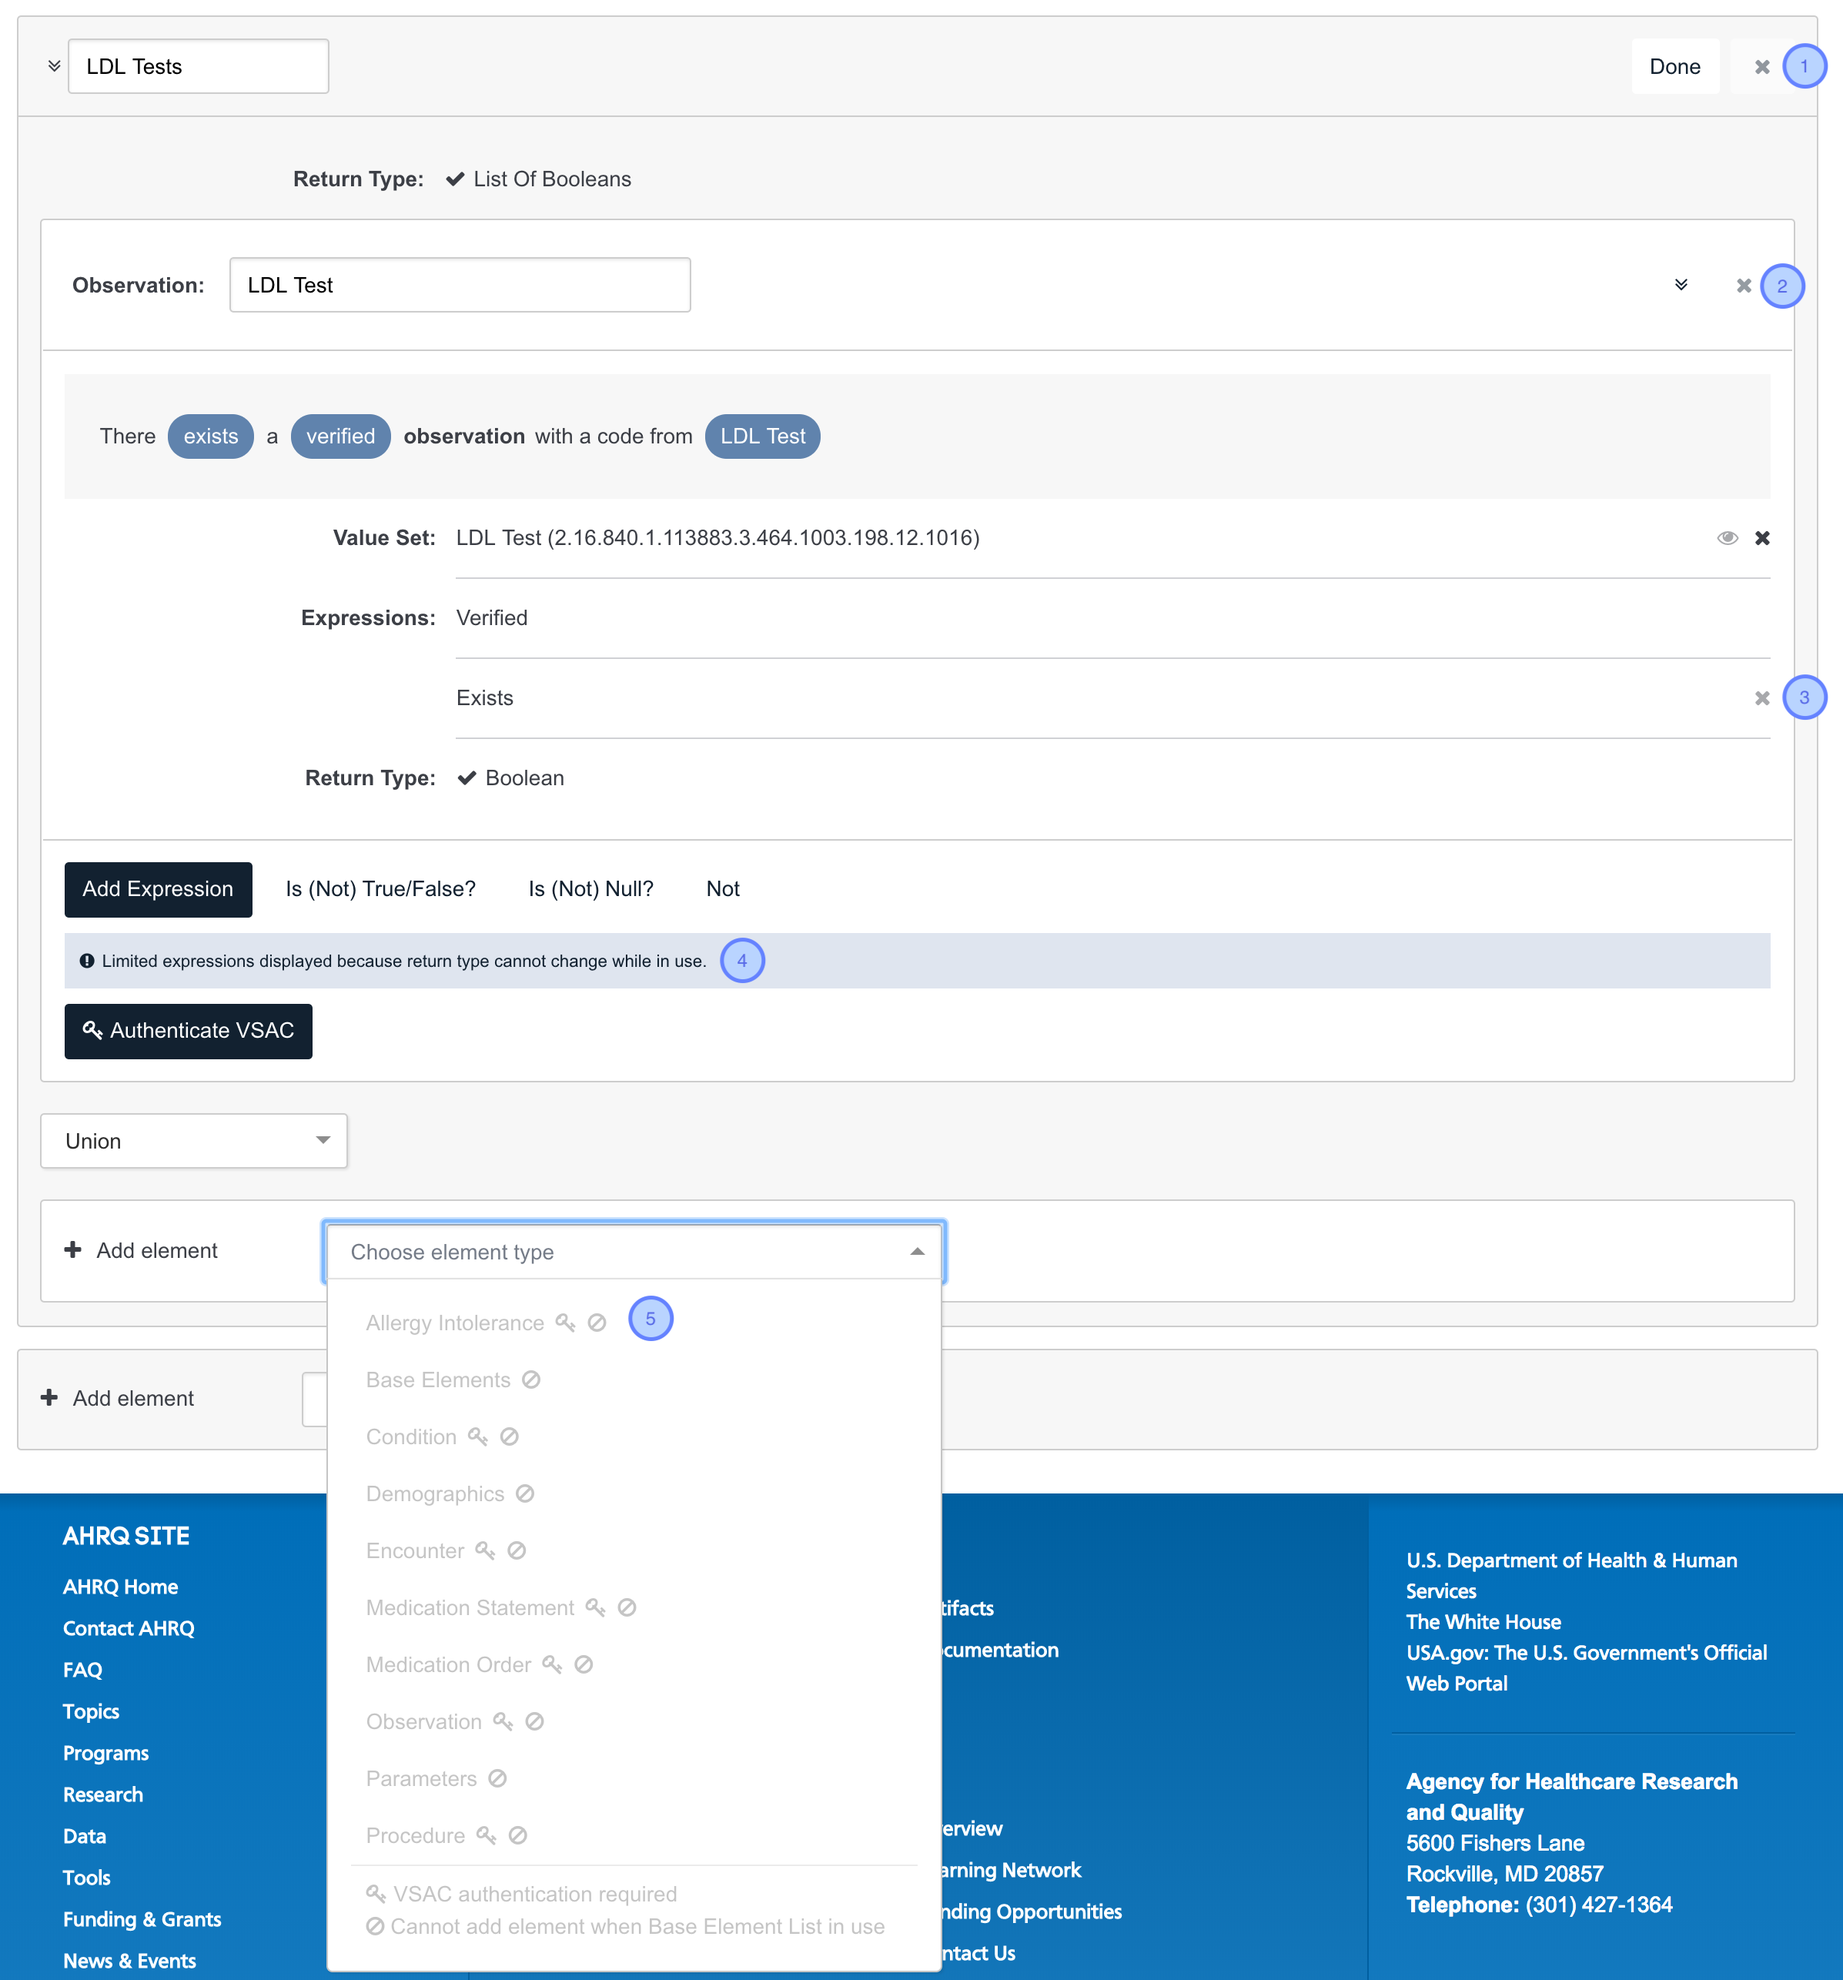
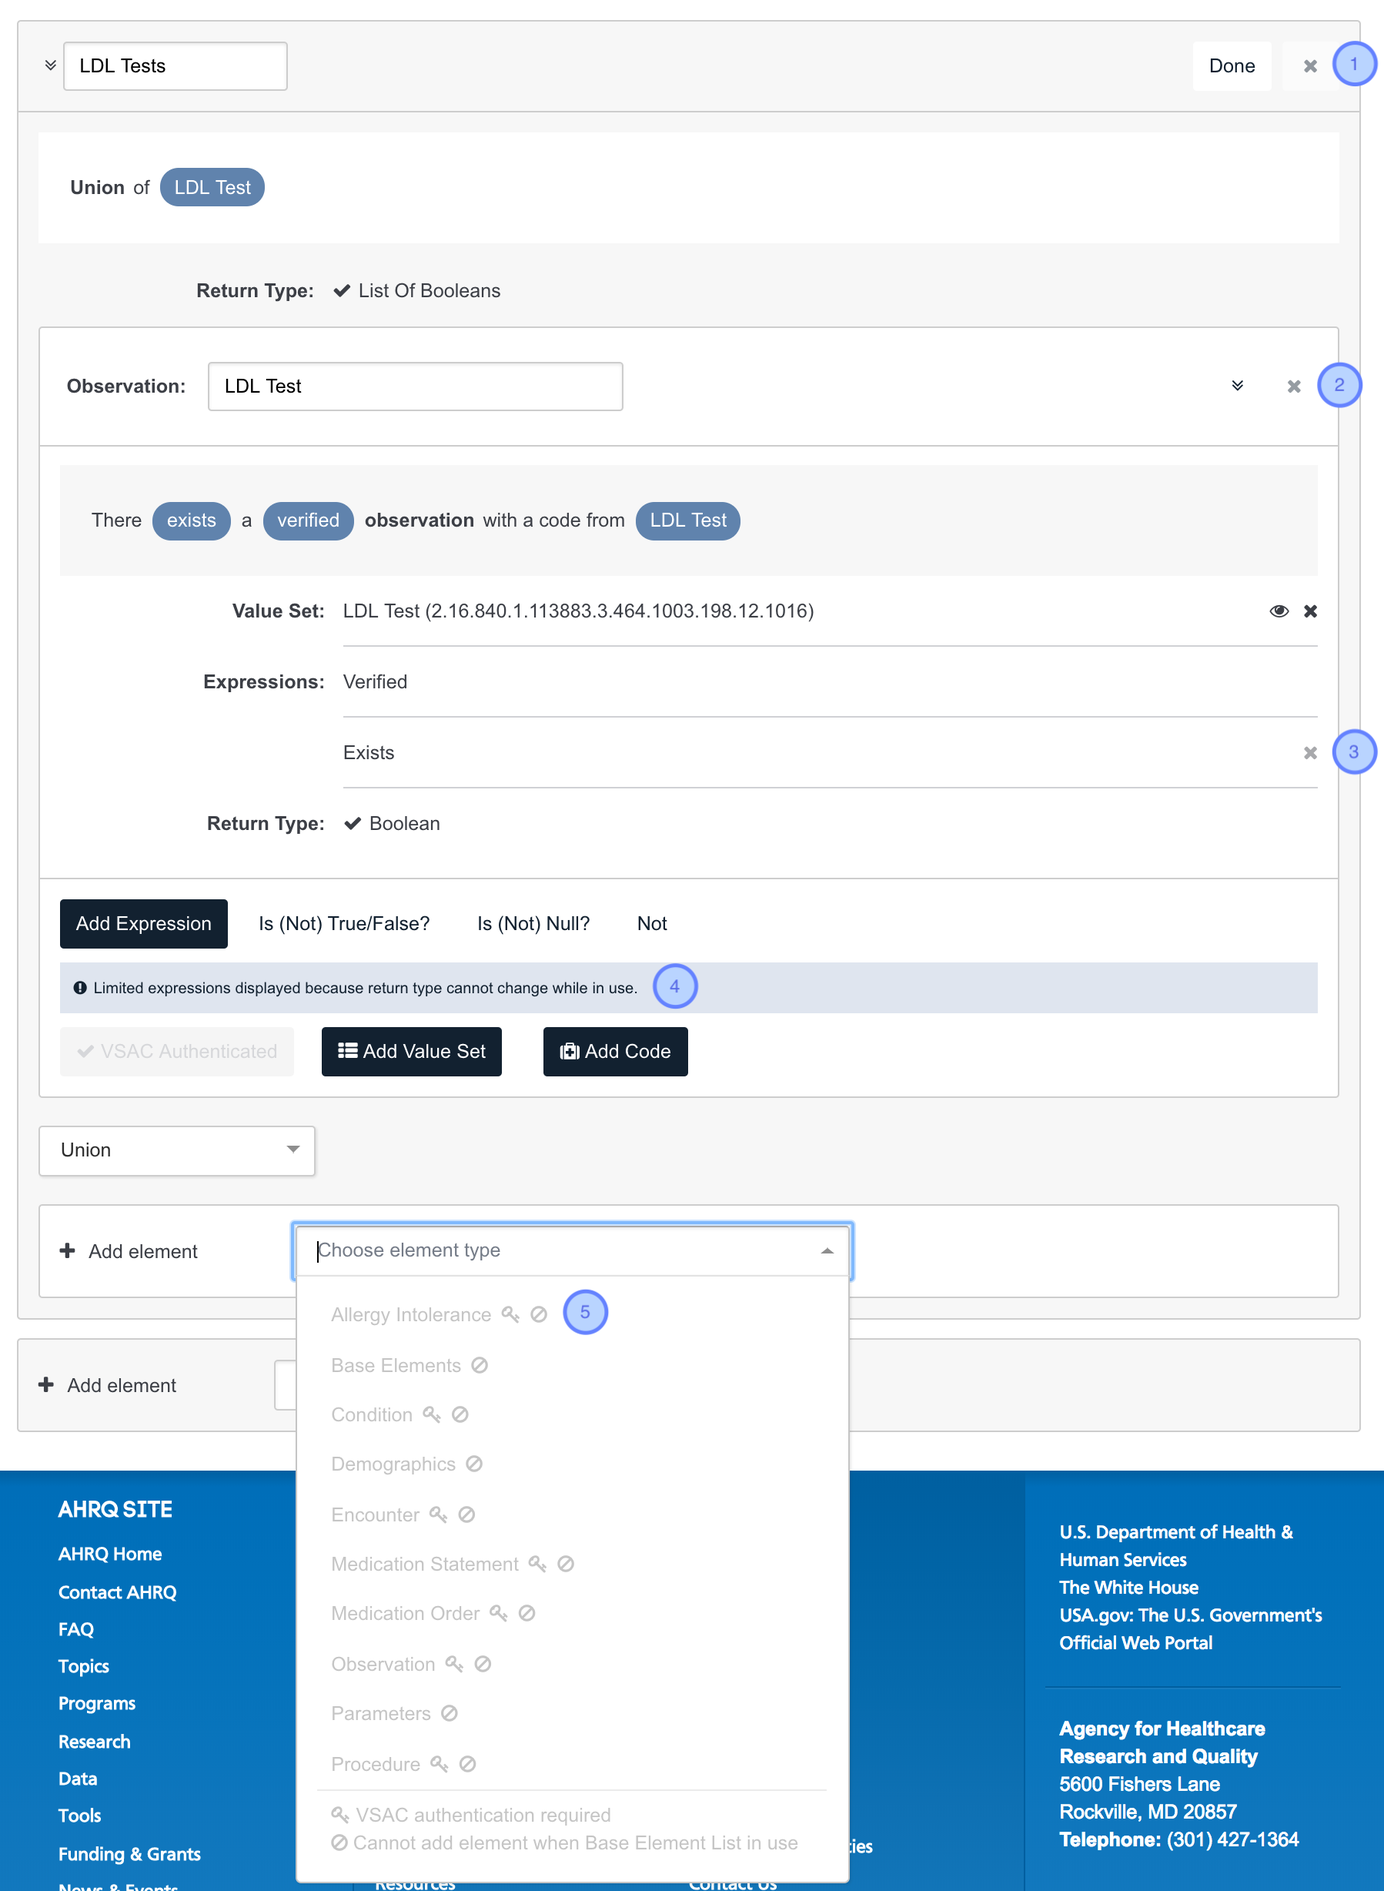
Updated User Guide screenshots to include expression phrase on groups.

diff --git a/frontend/src/components/UserGuide.js b/frontend/src/components/UserGuide.js
@@ -942,13 +942,12 @@ export default class UserGuide extends Component {
                     elements into one group, which can be combined with a Union or an Intersection. Lists can be added to
                     Base Elements by choosing "List Operations" from the Element Picker and choosing "Intersect" or "Union".
                   </p>
+
                   <p>
-                    <p>
-                      <img
-                        alt="Base Element List Group"
-                        src={screenshotUrl('List_Group')}
-                        className="img-fluid img-thumbnail rounded mx-auto d-block" />
-                    </p>
+                    <img
+                      alt="Base Element List Group"
+                      src={screenshotUrl('List_Group')}
+                      className="img-fluid img-thumbnail rounded mx-auto d-block" />
                   </p>
 
                   <ol>
